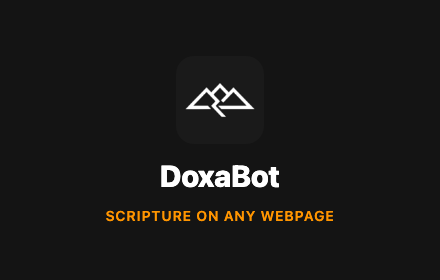
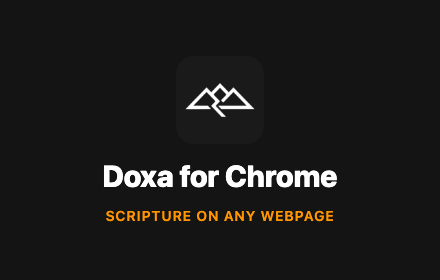
Rename to Doxa for Chrome + subscription framing (#3)
* feat: rename to 'Doxa for Chrome' + subscription-model framing

CEO direction 2026-08-15: no 'bot' in the name. Extension is a surface of
Doxa (same pattern as Claude in Chrome), so the product name leads.
Manifest, popup, options, README, store listing, and assets renamed;
listing copy reframed around trial-then-subscription (free trial stays
the server-enforced 10 lifetime calls; sign-in gate lands next).

Claude-Session: https://claude.ai/code/session_019zUaTWRHZqSuv7XDG6ykVq

* fix: apply rename review findings (6/6) + subscription-gate spec

- listing.md: BLOCKED banner — describes ship state, submit only after the
  sign-in gate deploys (privacy answers would misrepresent current build)
- specs/subscription-gate.md: full design grounded in verified doxa-app
  facts (mcp-server headers, per-IP trial, effective_tier, auth idiom)
- popup tagline, README zip name, Edge naming note, specs pointer fixed

Claude-Session: https://claude.ai/code/session_019zUaTWRHZqSuv7XDG6ykVq

---------

Changed region(s): [[0.2364, 0.5714, 0.7682, 0.6857]]

diff --git a/static/options.html b/static/options.html
@@ -2,7 +2,7 @@
 <html lang="en">
 <head>
   <meta charset="utf-8" />
-  <title>DoxaBot Settings</title>
+  <title>Doxa for Chrome — Settings</title>
   <link rel="stylesheet" href="popup.css" />
   <style>
     html, body { width: 100%; max-width: 560px; }
@@ -84,7 +84,7 @@
   <header class="doxa-header">
     <img src="icons/icon-48.png" alt="" class="doxa-logo" style="width: 40px; height: 40px;" />
     <div class="doxa-title">
-      <h1 style="font-size: 18px;">DoxaBot Settings</h1>
+      <h1 style="font-size: 18px;">Doxa for Chrome — Settings</h1>
       <p class="doxa-tagline">Bring your own Anthropic key for unlimited.</p>
     </div>
   </header>
@@ -118,7 +118,7 @@
 
     <section class="doxa-section">
       <h2>How it works</h2>
-      <p>Right-click selected text on any webpage and pick "Encourage me with this" or "Look up in Doxa" for a Bible reference. Or click the DoxaBot icon for a free-form prompt.</p>
+      <p>Right-click selected text on any webpage and pick "Encourage me with this" or "Look up in Doxa" for a Bible reference. Or click the Doxa icon for a free-form prompt.</p>
       <p>All requests go directly to doxa.app/mcp/v1. No background server. No analytics. No tracking.</p>
     </section>
   </main>

diff --git a/store/assets-src/screenshot-2.html b/store/assets-src/screenshot-2.html
@@ -24,7 +24,7 @@
 <body>
   <div class="page">
     <div class="headline">Look up any verse, <span class="accent">anywhere</span>.</div>
-    <div class="sub">Select a reference like “John 14:6” on any page and DoxaBot brings you the verse — Berean Standard Bible, with a link to keep reading in Doxa.</div>
+    <div class="sub">Select a reference like “John 14:6” on any page and Doxa brings you the verse — Berean Standard Bible, with a link to keep reading in Doxa.</div>
     <div class="sel">…as it says in <mark>John 14:6</mark>, which has carried generations through their hardest seasons…</div>
   </div>
   <div class="toast">
@@ -34,5 +34,5 @@
 — Doxa · doxa.app</div>
     <span class="link">Open in Doxa</span>
   </div>
-  <div class="logo"><img src="../../src/icons/icon-128.png" alt=""> DoxaBot · doxa.app</div>
+  <div class="logo"><img src="../../src/icons/icon-128.png" alt=""> Doxa · doxa.app</div>
 </body></html>

diff --git a/static/popup.html b/static/popup.html
@@ -2,15 +2,15 @@
 <html lang="en">
 <head>
   <meta charset="utf-8" />
-  <title>DoxaBot</title>
+  <title>Doxa for Chrome</title>
   <link rel="stylesheet" href="popup.css" />
 </head>
 <body>
   <header class="doxa-header">
     <img src="icons/icon-32.png" alt="" class="doxa-logo" />
     <div class="doxa-title">
-      <h1>DoxaBot</h1>
-      <p class="doxa-tagline">Scripture, summoned.</p>
+      <h1>Doxa</h1>
+      <p class="doxa-tagline">Encouragement from Scripture on any webpage.</p>
     </div>
   </header>
 

diff --git a/store/assets-src/screenshot-1.html b/store/assets-src/screenshot-1.html
@@ -49,5 +49,5 @@
 — Doxa · doxa.app</div>
     <div class="pills"><span class="pill">Joshua 4:6-7</span></div>
   </div>
-  <div class="logo"><img src="../../src/icons/icon-128.png" alt=""> DoxaBot · doxa.app</div>
+  <div class="logo"><img src="../../src/icons/icon-128.png" alt=""> Doxa · doxa.app</div>
 </body></html>

diff --git a/src/options.ts b/src/options.ts
@@ -1,5 +1,5 @@
 /**
- * DoxaBot settings page. Lets the user paste an Anthropic key for unlimited BYOL.
+ * Doxa for Chrome settings page. Lets the user paste an Anthropic key for unlimited BYOL.
  */
 
 import { getAnthropicKey, setAnthropicKey, clearAnthropicKey } from './utils/doxa.js';

diff --git a/src/popup.ts b/src/popup.ts
@@ -1,5 +1,5 @@
 /**
- * DoxaBot popup. Free-form encourage prompt; mirrors what the right-click
+ * Doxa for Chrome popup. Free-form encourage prompt; mirrors what the right-click
  * "Encourage me with this" menu does, but with a typed input.
  */
 

diff --git a/static/popup.css b/static/popup.css
@@ -1,5 +1,5 @@
 /*
- * DoxaBot popup styles.
+ * Doxa for Chrome popup styles.
  * Doxa palette: sacredFlame #FF4500, amberFlame #FF9500, charcoal #1A1A1A,
  * smoke #242424, ash #2C2C2C, ember #3C3C3C, coolAsh #707070, pureHeat #FFFFFF.
  */

diff --git a/store/assets-src/tile-440x280.html b/store/assets-src/tile-440x280.html
@@ -10,6 +10,6 @@
 </style></head>
 <body>
   <img src="../../src/icons/icon-128.png" alt="">
-  <div class="name">DoxaBot</div>
+  <div class="name">Doxa for Chrome</div>
   <div class="tag">Scripture on any webpage</div>
 </body></html>

diff --git a/src/background.ts b/src/background.ts
@@ -1,5 +1,5 @@
 /**
- * DoxaBot service worker.
+ * Doxa for Chrome service worker.
  *
  * Owns the two right-click context menu items, both shown on any text
  * selection:

diff --git a/store/listing.md b/store/listing.md
@@ -1,16 +1,21 @@
-# Chrome Web Store listing — DoxaBot
+# Chrome Web Store listing — Doxa for Chrome
+
+> **BLOCKED — do not submit yet.** This file describes the SHIP state, which includes
+> the Doxa sign-in + subscription gate (`specs/subscription-gate.md`). Until that gate is
+> merged and deployed, the built extension still carries the BYOL key field, and these
+> privacy answers would misrepresent the build. Submit only after the gate ships.
 
 Everything the developer console asks for, in order. Copy-paste from here.
 CEO sign-off required before submission (public Doxa surface; see the
-`chrome-web-store-publish` action at insight.doxa.app/actions).
+`chrome-web-store-publish-doxabot` action at insight.doxa.app/actions).
 
 ## Product details
 
-**Name:** DoxaBot
+**Name:** Doxa for Chrome
 
 **Summary** (132 chars max):
 
-> Bible verses and Christ-centered encouragement on any webpage. Select text, right-click, receive Scripture that speaks to it.
+> Encouragement from Scripture on any webpage. Select text, right-click, and know the God who speaks.
 
 **Category:** Lifestyle (pick the closest religion/well-being subcategory the console offers)
 
@@ -18,23 +23,23 @@ CEO sign-off required before submission (public Doxa surface; see the
 
 ## Description
 
-> DoxaBot brings the encouragement of Scripture to wherever you already are on the web.
+> Doxa for Chrome brings the encouragement of Scripture to wherever you already are on the web. The Doxa app is where you record and remember what God has said and done; this extension is Doxa meeting you in the middle of your day.
 >
-> Select any text on any page — a hard email, a discouraging headline, a message from a friend — right-click, and choose "Encourage me with this". DoxaBot responds with a short word of encouragement anchored in Scripture, written in the voice of Doxa: warm, biblical, and free of hype.
+> Select any text on any page — a hard email, a discouraging headline, a message from a friend — right-click, and choose "Encourage me with this". Doxa responds with a short word of encouragement anchored in Scripture, written in the voice of Doxa: warm, biblical, and free of hype.
 >
 > Select a Bible reference like "John 14:6" and choose "Look up in Doxa" to read the verse instantly (Berean Standard Bible), with a link to keep reading in Doxa's Bible reader.
 >
-> Or click the DoxaBot icon in your toolbar and describe what you are facing in your own words.
+> Or click the Doxa icon in your toolbar and describe what you are facing in your own words.
 >
 > Every response is tagged to one of nine movements of the journey — hear, discern, test, record, remember, engage, trust, fight, endure — a simple map for holding on to what God has said and done.
 >
-> FREE TO USE
-> DoxaBot includes a free tier so you can start right away. Power users can add their own Anthropic API key in Settings for unlimited use.
+> TRY IT FREE
+> Your first encouragements are free — no account needed. To keep going, sign in with your Doxa account and an active Doxa subscription (start yours at https://doxa.app).
 >
 > PRIVACY FIRST
-> DoxaBot talks to exactly one server: doxa.app. No analytics, no tracking, no ads, no data sold — ever. Only the text you select or type is sent, only when you ask. Full details: https://doxa.app/privacy
+> The extension talks to exactly one server: doxa.app. No analytics, no tracking, no ads, no data sold — ever. Only the text you select or type is sent, only when you ask. Full details: https://doxa.app/privacy
 >
-> DoxaBot is made by Doxa (https://doxa.app). Record what God has said and done, remember it, and come to know Him through it — for the whole journey.
+> Doxa for Chrome is made by Doxa (https://doxa.app). Record what God has said and done, remember it, and come to know Him through it — for the whole journey.
 
 ## Graphic assets
 
@@ -45,21 +50,21 @@ CEO sign-off required before submission (public Doxa surface; see the
 
 ## Privacy tab answers
 
-**Single purpose:** DoxaBot provides Bible verse lookup and Scripture-based encouragement for text the user selects or types.
+**Single purpose:** Doxa for Chrome provides Bible verse lookup and Scripture-based encouragement for text the user selects or types.
 
 **Permission justifications:**
 
 - `contextMenus` — adds the two right-click actions ("Encourage me with this", "Look up in Doxa") that are the extension's core interface.
 - `activeTab` — grants temporary access to the page the user right-clicked on, only on that user gesture, so the result toast can be shown there.
 - `scripting` — injects the result toast into the active tab after a right-click action. Runs only on user gesture, only on the active tab.
-- `storage` — stores the user's optional Anthropic API key and a random per-install identifier used for free-tier quota. Nothing else.
+- `storage` — stores the user's Doxa sign-in session and a random per-install identifier used for trial quota. Nothing else.
 - Host permission `https://doxa.app/*` — the single API endpoint (doxa.app/mcp/v1) every request goes to.
 
 **Remote code:** No. All code ships in the package; the only network traffic is JSON to doxa.app.
 
 **Data usage disclosures:**
 
-- Collects: "Website content" (the text the user selects, sent to doxa.app only when the user invokes an action), "Personal communications" (a selection the user chooses to send may itself be an email or message excerpt — same user-initiated path, nothing is read passively), and "Authentication information" (the optional user-supplied Anthropic API key, stored locally, sent only to doxa.app as a request header).
+- Collects: "Website content" (the text the user selects, sent to doxa.app only when the user invokes an action), "Personal communications" (a selection the user chooses to send may itself be an email or message excerpt — same user-initiated path, nothing is read passively), and "Authentication information" (the user's Doxa account session after they sign in, stored locally, sent only to doxa.app).
 - Not collected: browsing history, location, financial info, health info, user activity.
 - Certify: data is not sold, not used for unrelated purposes, not used for creditworthiness.
 
@@ -73,6 +78,6 @@ CEO sign-off required before submission (public Doxa surface; see the
 
 ## Publish flow
 
-1. `npm run build`, then `cd dist && zip -r ../doxabot-chrome.zip .`
+1. `npm run build`, then `cd dist && zip -r ../doxa-for-chrome.zip .`
 2. Upload at https://chrome.google.com/webstore/devconsole (one-time USD 5 developer fee on first use)
 3. Fill the tabs from this file, submit for review (typical 1–5 days)

diff --git a/specs/subscription-gate.md b/specs/subscription-gate.md
@@ -1,0 +1,103 @@
+# Subscription gate — trial, then Doxa sign-in + subscription
+
+CEO direction (Garth, 2026-08-15): the extension works like Claude in Chrome.
+People try it free, then they must sign in with a Doxa account that has an
+active subscription. BYOL (user-pasted Anthropic key) leaves this surface.
+Approved values: trial = the existing 10 lifetime free calls; name = Doxa for
+Chrome.
+
+## Current server reality (verified 2026-08-15 against doxa-app)
+
+- `supabase/functions/mcp-server/index.ts` serves `doxa.app/mcp/v1`
+  (Vercel rewrite, `verify_jwt = false`). It reads `x-anthropic-key`,
+  `x-doxa-caller-id`, `x-doxa-api-key`; it never reads `Authorization`
+  (already CORS-allowed).
+- Free quota: `FREE_LIFETIME_ENCOURAGE_LIMIT = 10`, counted in
+  `mcp_free_usage` **per source IP** (IPv6 /64), only for `doxa_encourage`.
+  `doxa_scripture` is uncapped. `_quota.window: 'lifetime'`.
+- Entitlements: `public.subscriptions` (one row per user; tier
+  `grace|strength|courage|comfort`, `grace` = free) + SQL helper
+  `public.effective_tier(p_tier, p_user_id)` which degrades lapsed paid
+  tiers to `grace` after a 72h grace window.
+- Auth: standard Supabase (email/password, magic link, Google, Apple).
+  ~29 edge functions validate user JWTs manually via an anon-key client and
+  `auth.getUser()` (canonical: `search-grace-record/index.ts:197`).
+  Supabase URL + anon key are public client config.
+
+## Design
+
+### 1. doxa-app: mcp-server accepts a Doxa user session
+
+In `checkCaller`/dispatch:
+
+1. Read `Authorization: Bearer <jwt>`. When present, validate with the
+   existing manual `auth.getUser()` idiom. Invalid/expired → structured
+   error `auth_invalid` (extension then silently refreshes and retries once).
+2. Valid user → service client reads `subscriptions` for `user_id`, applies
+   the same lapse rule as `effective_tier` (reuse the RPC). Entitled =
+   effective tier ≠ `grace`.
+3. Entitled subscriber: bypass the free-IP quota, `PAID_MAX_TOKENS` (1500),
+   server's own Anthropic key, `_quota = { tier: 'subscription', used: n,
+   limit: <fair-use>, window: 'day' }`. Fair-use daily cap per user (cost
+   guard, CTO-set, adjustable constant): 100 encourage calls/day, counted in
+   a new `mcp_user_usage` table (user_id, day, encourage_count).
+4. Signed-in but tier = `grace`: structured error `subscription_required`
+   with `upgradeUrl: https://doxa.app/pricing`. Do NOT fall back to the IP
+   trial silently once the user has signed in — the UI must show the
+   subscribe CTA instead of confusing partial service. Exception: if the IP
+   trial still has calls left, serve them and include the remaining count so
+   the extension can show "N free calls left".
+5. No Authorization header: unchanged anonymous trial behaviour.
+
+### 2. doxa-app web (web-invitations): `/app/extension/connect`
+
+A small page that hands the signed-in session to the extension:
+
+1. Query param `redirect_uri`, validated against
+   `^https://[a-p]{32}\.chromiumapp\.org/$` — nothing else, ever.
+2. Not signed in → the normal login flow (all providers work), then back here.
+3. Signed in → consent screen: "Connect your Doxa account to the browser
+   extension?" with the extension id shown, one button. On click, redirect to
+   `redirect_uri` + `#access_token=...&refresh_token=...` (URL fragment, so
+   tokens never hit server logs).
+4. Consent is mandatory every time (no auto-redirect) — the click is the
+   defence against a hostile extension driving this flow invisibly.
+
+### 3. Extension
+
+1. `chrome.identity.launchWebAuthFlow` → the connect page; parse the
+   fragment; store both tokens in `chrome.storage.local` (`identity`
+   permission added to the manifest).
+2. Session client (hand-rolled, no deps): refresh via Supabase REST
+   `POST /auth/v1/token?grant_type=refresh_token` with the public anon key;
+   refresh on 401/`auth_invalid`, sign out on refresh failure.
+3. `DoxaClient` gets the header via its `fetch` option: a wrapper fetch that
+   injects `Authorization: Bearer <access_token>` when signed in.
+4. UI: options page BYOL section replaced by an Account section
+   (signed-out: "Sign in with Doxa" button; signed-in: email + tier badge +
+   sign-out). Popup shows trial-remaining when anonymous; on
+   `free_trial_exhausted` / `subscription_required`, popup and toast show
+   sign-in or subscribe CTA (doxa.app/pricing).
+5. BYOL removal: `x-anthropic-key` path, key storage, options field, and
+   related copy all deleted from this surface (the raw MCP endpoint keeps
+   BYOL for developers).
+
+## Slices
+
+1. **Server gate** (doxa-app): mcp-server Authorization path + entitlement +
+   fair-use counter + structured errors. Deployable alone (no caller sends
+   the header yet). Verify: curl with a real JWT for a grace user and a
+   subscribed user.
+2. **Connect page** (doxa-app web-invitations): standalone page, testable in
+   a browser with a hand-built redirect_uri.
+3. **Extension auth + UI + BYOL removal** (this repo): lands last, after 1+2
+   are deployed.
+
+## Open items
+
+- The trial is per **IP**, not per install (server fact). Copy must say
+  "free trial", never "10 per device".
+- `@thedoxaway/mcp-client` needs no change if its `fetch` option composes
+  with `callerId` (verify; otherwise bump the client).
+- Store privacy answers change once shipped: auth info = Doxa session
+  (already staged in `store/listing.md`, submission blocked until then).

diff --git a/README.md b/README.md
@@ -1,8 +1,8 @@
-# DoxaBot for Chrome and Edge
+# Doxa for Chrome (and Edge)
 
-Scripture, summoned. Encouragement on demand on any webpage.
+Encouragement from Scripture on any webpage.
 
-DoxaBot adds two right-click items to your browser:
+Doxa for Chrome adds two right-click items to your browser:
 
 - **Encourage me with this**: select any text, get a Doxa-voice encouragement back in a corner toast
 - **Look up in Doxa**: select a Bible reference (e.g. `John 14:6`), get the verse plus a deep link into Doxa's Bible reader
@@ -13,8 +13,8 @@ The extension talks straight to [doxa.app/mcp/v1](https://doxa.app/mcp). No anal
 
 ## Tiers
 
-- **Free anon**: a small per-install quota, counted by a random per-install caller id. The popup shows your used/limit as the server reports it. 250-token responses.
-- **BYOL**: paste your Anthropic key in Settings. Unlimited calls, 1500-token responses, billed to your Anthropic account. The key is stored in `chrome.storage.local` and only ever sent to `doxa.app`.
+- **Free trial**: a small per-install quota, counted by a random per-install caller id. The popup shows your used/limit as the server reports it. 250-token responses.
+- **Doxa subscription** (in progress — see `specs/subscription-gate.md`): once the trial is used, sign in with your Doxa account; an active subscription unlocks continued use, the same way Claude in Chrome gates on a Claude plan.
 
 ## Build
 
@@ -51,7 +51,7 @@ smoke test in Firefox before any AMO listing.
 ### Chrome Web Store
 
 1. Pay the one-time USD 5 developer fee at https://chrome.google.com/webstore/devconsole
-2. Zip the contents of `dist/` (not the folder itself): `cd dist && zip -r ../doxabot-chrome.zip .`
+2. Zip the contents of `dist/` (not the folder itself): `cd dist && zip -r ../doxa-for-chrome.zip .`
 3. Upload the zip in the developer console
 4. Fill out store listing (description, screenshots at 1280x800 or 640x400, promo tile 440x280, small tile 920x680)
 5. Submit for review. Typical turnaround: 3 to 5 days
@@ -61,7 +61,7 @@ The current `host_permissions` is restricted to `https://doxa.app/*`. Combined w
 ### Microsoft Edge Add-ons
 
 1. Sign up at https://partner.microsoft.com/dashboard/microsoftedge. Free.
-2. Upload the same zip you used for Chrome (MV3 manifests work in Edge unchanged)
+2. Upload the Chrome zip after swapping the manifest name to "Doxa for Edge" (browser-specific name; everything else is unchanged)
 3. Typical review: 1 to 2 weeks
 
 ## File layout
